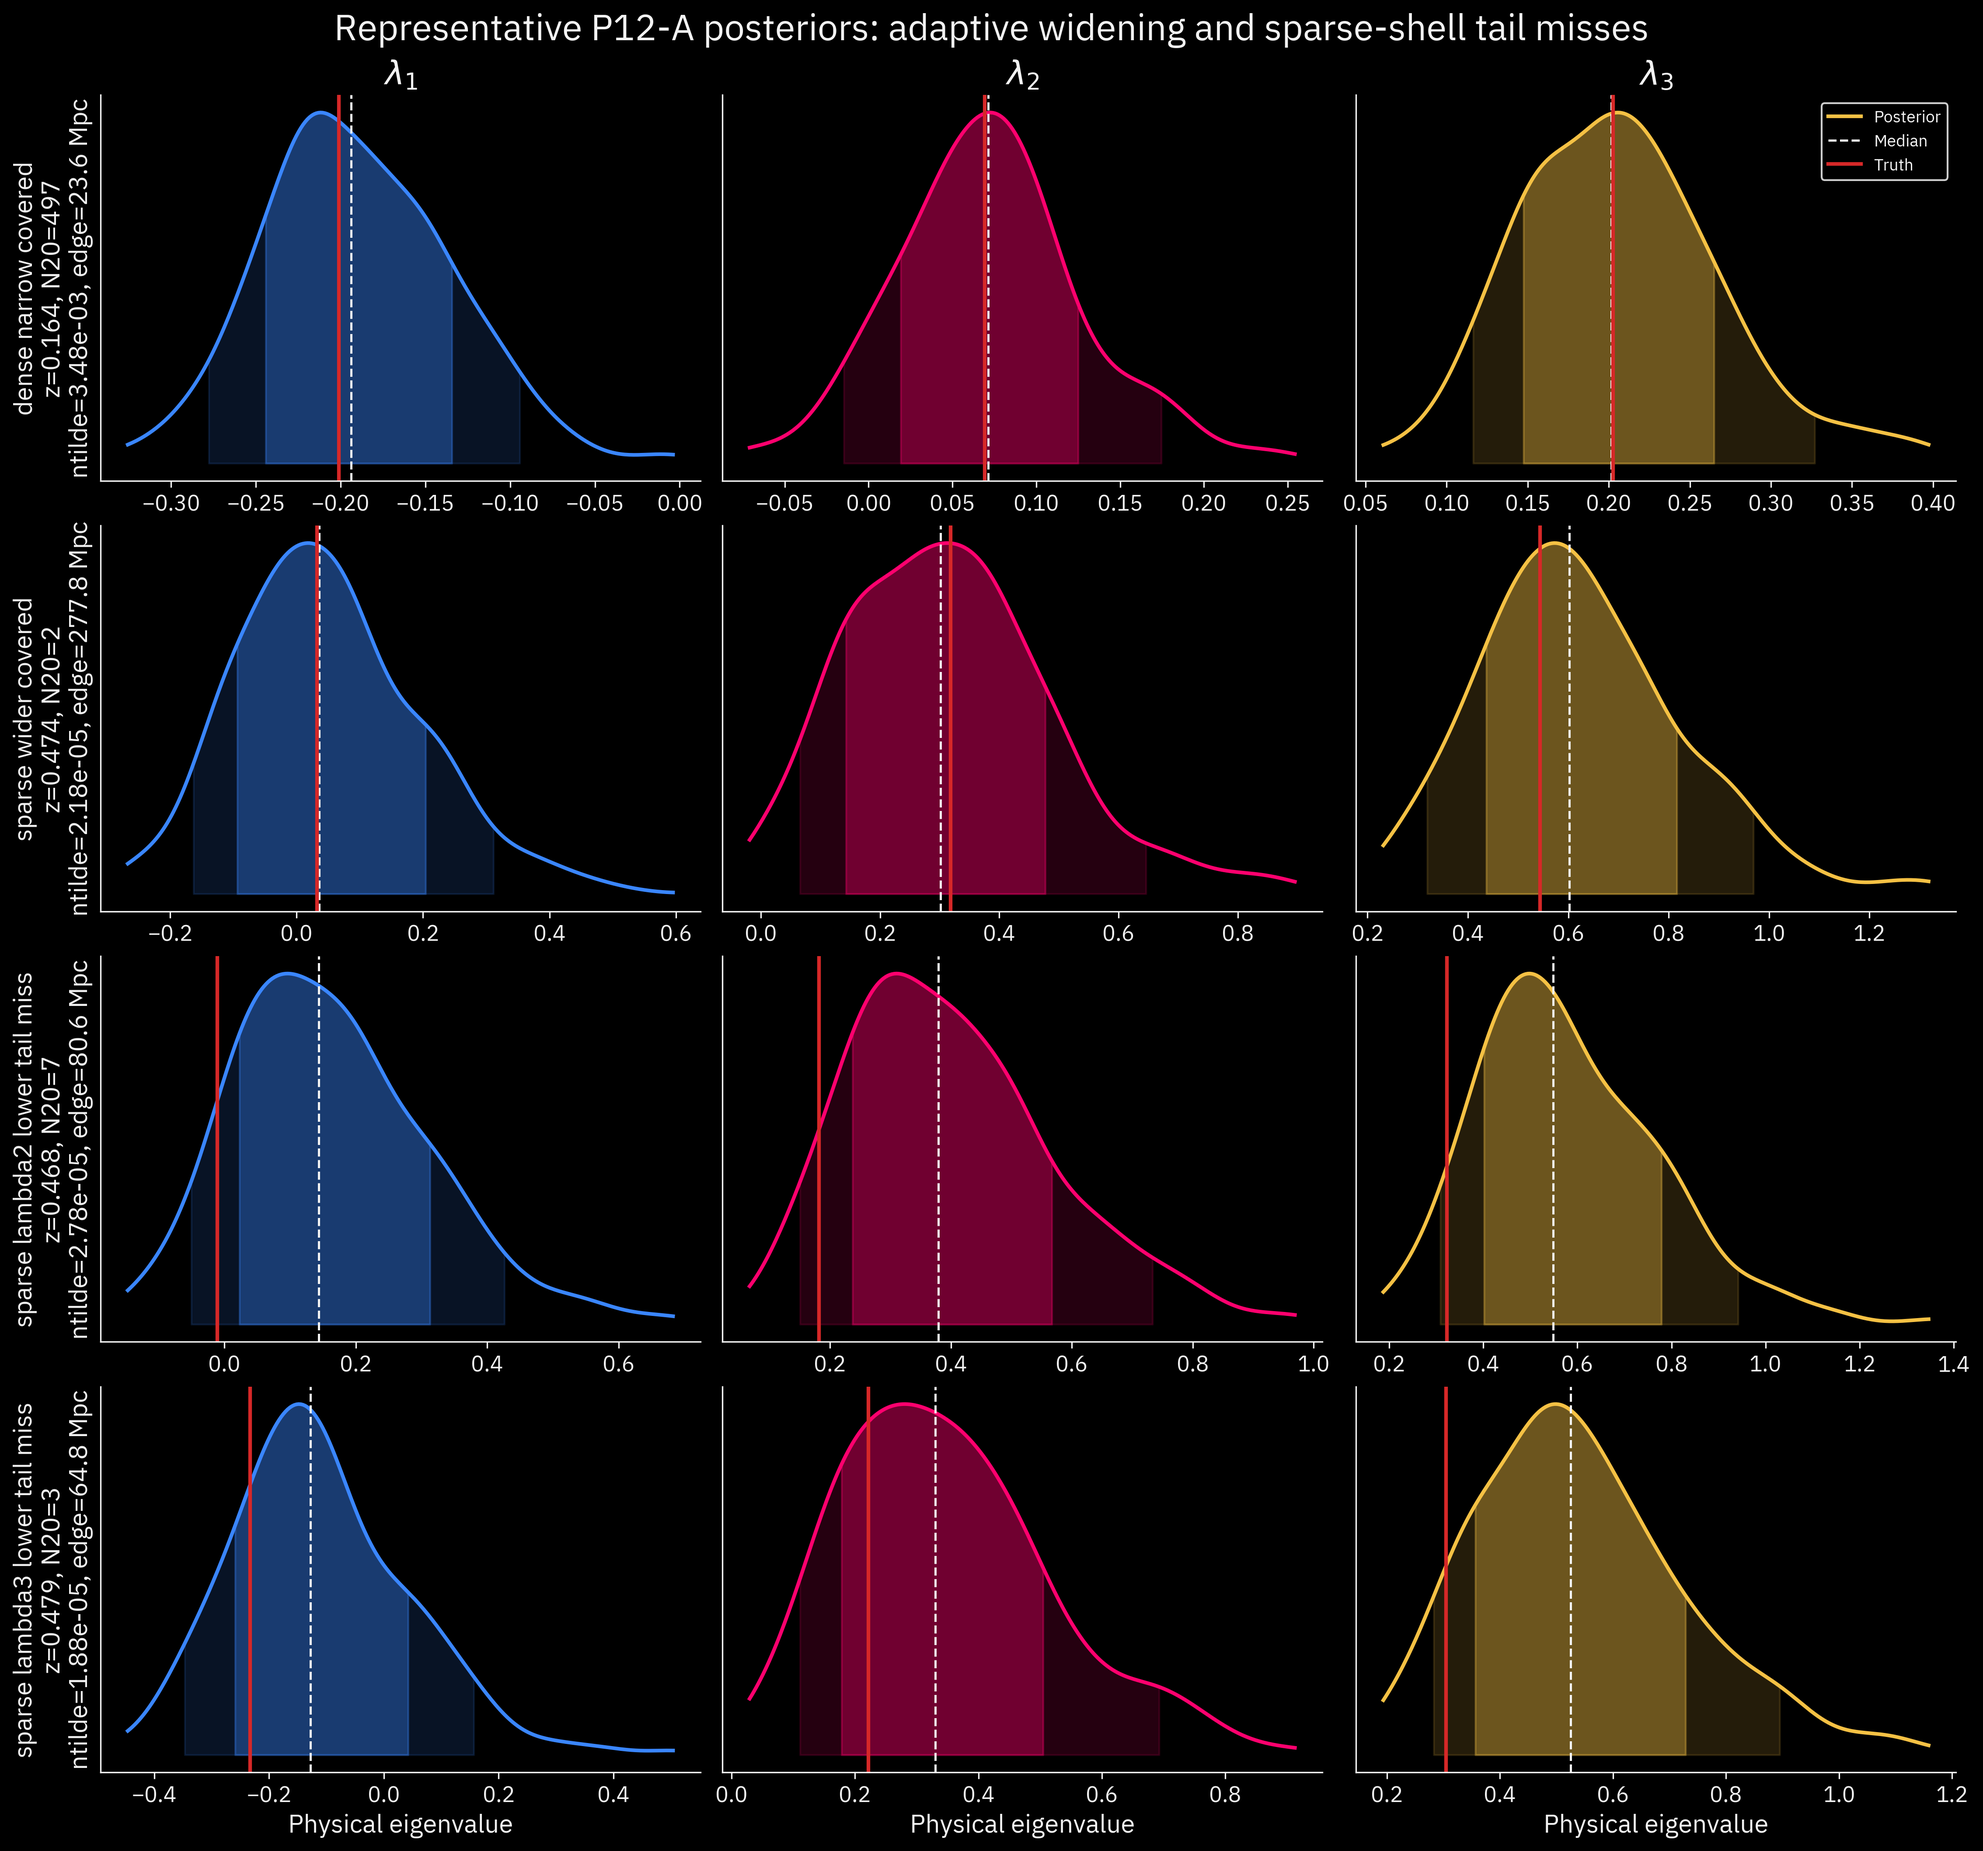
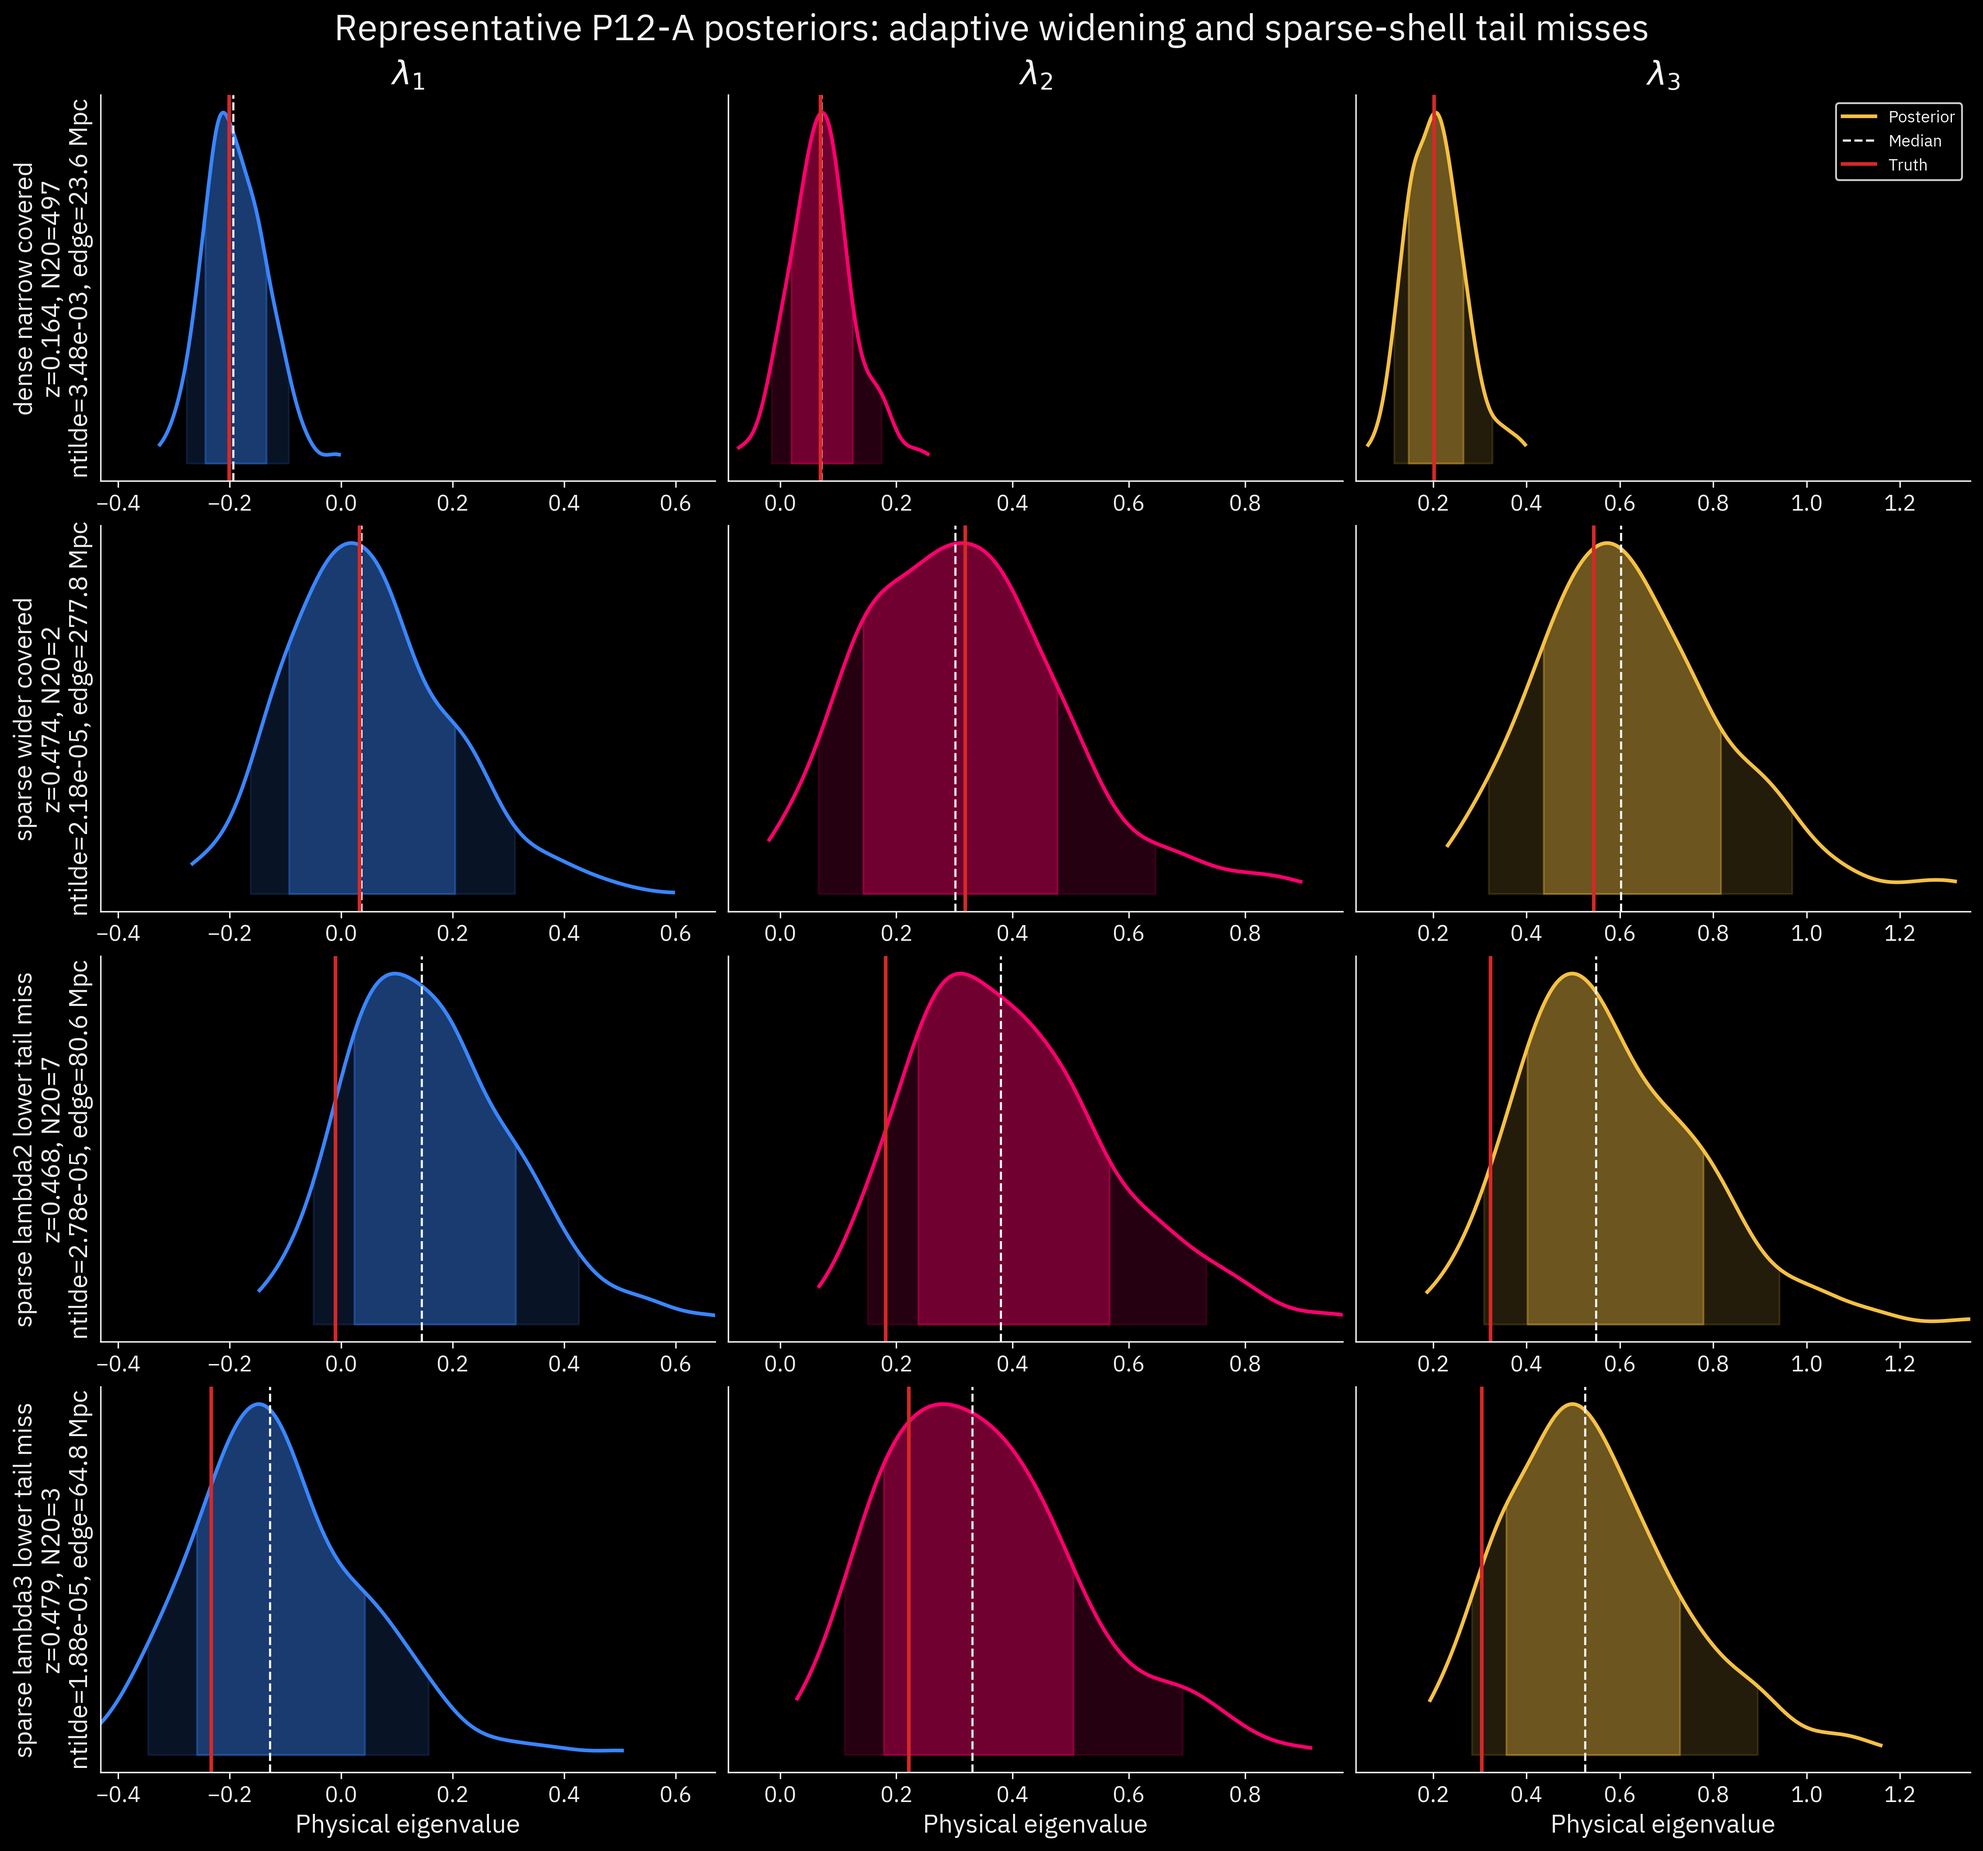
Fix P12 posterior example axes

diff --git a/workflows/sbi/p12_width_information_diagnostics.py b/workflows/sbi/p12_width_information_diagnostics.py
@@ -519,6 +519,26 @@ def plot_examples(
 ) -> None:
     apply_style()
     fig, axes = plt.subplots(4, 3, figsize=(15, 14), constrained_layout=True)
+    # Share one physical range within each eigenvalue column. Per-panel
+    # autoscaling makes narrow and broad posteriors look deceptively alike.
+    component_limits: list[tuple[float, float]] = []
+    example_index = np.asarray(
+        [int(example["evaluation_row"]) for example in examples], dtype=np.int64
+    )
+    for component in range(3):
+        selected = np.asarray(
+            eigen_samples[example_index, :, component], dtype=np.float64
+        )
+        low = min(
+            float(np.quantile(selected, 0.005)),
+            float(np.min(truth[example_index, component])),
+        )
+        high = max(
+            float(np.quantile(selected, 0.995)),
+            float(np.max(truth[example_index, component])),
+        )
+        padding = max(0.05 * (high - low), 0.02)
+        component_limits.append((low - padding, high + padding))
     for row, example in enumerate(examples):
         index = int(example["evaluation_row"])
         for component in range(3):
@@ -532,6 +552,7 @@ def plot_examples(
             ax.plot(grid, density, color=COLORS[component], linewidth=2, label="Posterior")
             ax.axvline(q50, color=TEXT_COLOR, linestyle="--", linewidth=1.2, label="Median")
             ax.axvline(truth[index, component], color="#D62828", linewidth=2, label="Truth")
+            ax.set_xlim(*component_limits[component])
             ax.set_yticks([])
             if row == 0:
                 ax.set_title(EIGEN_LABELS[component])
@@ -599,6 +620,11 @@ def main() -> None:
     parser.add_argument("--workers", type=int, default=-1)
     parser.add_argument("--bootstrap-repeats", type=int, default=1000)
     parser.add_argument("--seed", type=int, default=20260830)
+    parser.add_argument(
+        "--replot-examples-only",
+        action="store_true",
+        help="regenerate the posterior-example figure from frozen rows without rerunning diagnostics",
+    )
     args = parser.parse_args()
     args.output_root.mkdir(parents=True, exist_ok=True)
 
@@ -618,6 +644,32 @@ def main() -> None:
     checkpoint = __import__("torch").load(checkpoint_path, map_location="cpu", weights_only=False)
     theta_mean = np.asarray(checkpoint["theta_mean"], dtype=np.float64)
     theta_std = np.asarray(checkpoint["theta_std"], dtype=np.float64)
+    if args.replot_examples_only:
+        report = json.loads(
+            (args.output_root / "P12A_WIDTH_INFORMATION_DIAGNOSTIC.json").read_text()
+        )
+        examples = [dict(row) for row in report["examples"]]
+        selected = np.asarray(
+            [int(row["evaluation_row"]) for row in examples], dtype=np.int64
+        )
+        theta_samples = (
+            np.asarray(samples_scaled[selected], dtype=np.float64) * theta_std + theta_mean
+        )
+        eigen_samples = theta_to_eigenvalues(theta_samples)
+        truth = np.asarray(validation["truth_eigenvalues"])[evaluation_index[selected]]
+        context = np.asarray(validation["context"])[evaluation_index[selected]]
+        for local_index, row in enumerate(examples):
+            row["evaluation_row"] = local_index
+        plot_examples(
+            args.output_root / "p12a_posterior_examples",
+            eigen_samples,
+            truth,
+            examples,
+            context[:, 3],
+            np.exp(context[:, 4]),
+            np.expm1(context[:, 6]),
+        )
+        return
     theta_samples = np.asarray(samples_scaled, dtype=np.float64) * theta_std + theta_mean
     eigen_samples = theta_to_eigenvalues(theta_samples)
     del theta_samples
